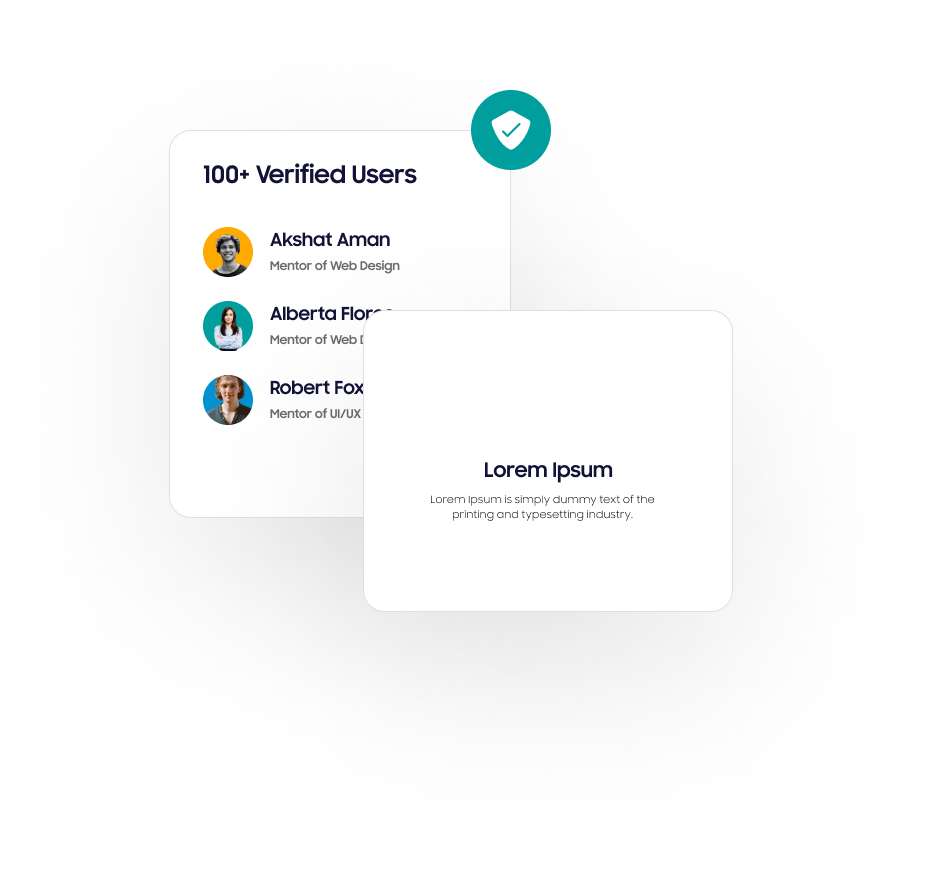
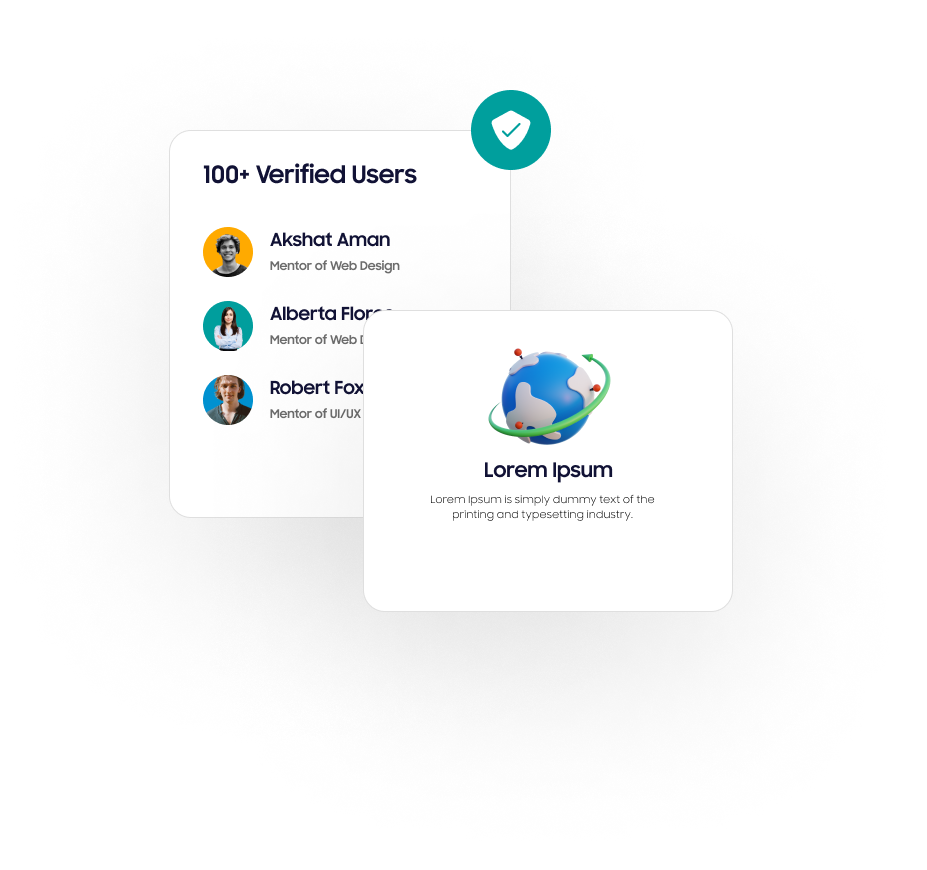
final code push

Changed region(s): [[0.5135, 0.4034, 0.6645, 0.5276]]

diff --git a/assets/css/style.css b/assets/css/style.css
@@ -3144,3 +3144,36 @@ select.form-control{
     text-transform: capitalize;
     color: #494949;
 }
+.card-8{
+    background: linear-gradient(180deg, rgba(174, 199, 158, 0.19) 0%, rgba(254, 217, 208, 0) 100%);
+    box-shadow: inset 0px -20px 20px rgba(255, 255, 255, 0.2);
+    border-radius: 27px;
+    height: 150px;
+    width: 150px;
+    display: flex;
+    justify-content: center;
+    align-items: center;
+    filter: drop-shadow(0px 22px 70px rgba(169, 180, 203, 0.2)) drop-shadow(-3px -3px 4px #FFFFFF) drop-shadow(0px 3px 0px #D6DADF);
+}
+.card-8-desc{
+    text-align: center;
+    margin-top: 20px ;
+}
+.card-8-desc h5{
+    font-style: normal;
+    font-weight: 700;
+    font-size: 20px;
+    line-height: 25px;
+    text-align: center;
+    color: #3F3F3F;
+}
+.intro-desc h1{
+    font-style: normal;
+    font-weight: 700;
+    font-size: 48px;
+    line-height: 60px;
+    color: #253B7C;
+}
+.intro-desc h1 span{
+    color: #52B6DF;
+}

diff --git a/about-us.php b/about-us.php
@@ -153,7 +153,7 @@ include_once "header.php"
 </section>
 
 <section class="about-community-section">
-    <div class="container">
+    <div class="container mb-3">
         <div class="row">
             <div class="col-md-6 learn-single mt-4">
                 <img src="assets/images/organised.png">
@@ -185,6 +185,84 @@ include_once "header.php"
             </div>
         </div>
     </div>
+    <div class="section-contact-ask mt-5">
+        <div class="container">
+            <div class="row contact-ask-card">
+                <div class="col-lg-6">
+                    <img src="assets/images/contact-1.png">
+                </div>
+                <div class="col-lg-6">
+                    <div class="ask-desc">
+                        <p>OpenGrowth Community</p>
+                        <h2>Ask, Share, Discuss and Clear Your Problems</h2>
+                        <span>Ask your doubts here with OpenGrowth community and get the answers by experts and other entrepreneur.</span>
+                        <textarea required class="form-control" rows="7"  placeholder="Sample Question : Lorem Ipsum is simply dummy text of the printing and typesetting industry. Lorem Ipsum has been the industry's standard dummy text ever since the 1500s, when an unknown printer took a galley of type and scrambled it to make a type specimen book."></textarea>
+                        <div class="row">
+                            <div class="col-md-7">
+                                <input class="form-control" name="email" type="email" placeholder="Email: loremipsum@gmail.com">
+                            </div>
+                            <div class="col-md-5 d-flex align-items-center">
+                                <button type="submit" class="btn btn-secondary">Ask to expert</button>
+                            </div>
+                        </div>
+                    </div>
+                </div>
+            </div>
+        </div>
+    </div>
+
+    <div class="container">
+        <div class="row justify-content-between">
+            <div class="col-md-5">
+                <div class="intro-desc">
+                    <h1><span>Dummy text is</span> "Lorem "</h1>
+                    <p>Lorem Ipsum is simply dummy text of the printing and typesetting industry. Lorem Ipsum has been the industry's standard dummy text ever since the 1500s, when an unknown printer took a galley of type and scrambled it to make a type specimen book. It has survived not only five centuries, but also the leap into electronic typesetting, remaining essentially unchanged. It was popularised in the 1960s with the release of Letraset sheets containing .</p>
+                </div>
+            </div>
+            <div class="col-md-6">
+                <div class="row">
+
+                    <div class="col-md-6 col-lg-4">
+                        <div class="card-8">
+                            <div class="image text-center">
+                                <img src="assets/images/webinar-1.png">
+                            </div>
+                        </div>
+                        <div class="card-8-desc">
+                            <h5>Live Sessions</h5>
+                            <p>Group learning, at comfort of your home or office is fun</p>
+                        </div>
+                    </div>
+
+                    <div class="col-md-6 col-lg-4">
+                        <div class="card-8">
+                            <div class="image text-center">
+                                <img src="assets/images/online-learning1.png">
+                            </div>
+                        </div>
+                        <div class="card-8-desc">
+                            <h5>Learning</h5>
+                            <p>We give you time and save your money as we want you to learn</p>
+                        </div>
+                    </div>
+
+                    <div class="col-md-6 col-lg-4">
+                        <div class="card-8">
+                            <div class="image text-center">
+                                <img src="assets/images/conversation1.png">
+                            </div>
+                        </div>
+                        <div class="card-8-desc">
+                            <h5>Interactions</h5>
+                            <p>Online Interaction with Expert is better than recorded videos </p>
+                        </div>
+                    </div>
+
+
+                </div>
+            </div>
+        </div>
+    </div>
 </section>
 
 <section class="team-section">
@@ -204,7 +282,7 @@ include_once "header.php"
                         <div class="row">
                             <div class="col-4 position-relative">
                                 <div class="team-card-img ">
-                                    <img src="assets/images/team-person.png">
+                                    <img src="assets/images/sourav.png">
                                 </div>
                             </div>
                             <div class="col-8">

diff --git a/single-blog-page.php b/single-blog-page.php
@@ -119,13 +119,15 @@
                 <div class="author-con mt-5">
                     <div class="row ">
                         <div class="col-md-8">
-                            <div class="blog-author-footer">
-                                <div class="author-img ">
-                                    <img src="assets/images/blogs/blog-writer.png">
+                            <div class="row align-items-center">
+                                <div class="col-md-4 pr-0">
+                                    <img src="assets/images/blogs/blog-writer.png" style="width: 110px;height: 110px;border-radius: 50%">
                                 </div>
-                                <div class="author-desc ">
-                                    <h6>Supriya Devnath</h6>
-                                    <p>Lorem Ipsum is simply dummy text of the printing and typesetting industry. Lorem Ipsum has been the industry's standard dummy text ever since the 1500s, when an unknown printer.</p>
+                                <div class="col-md-8 pl-0">
+                                    <div class="author-desc ">
+                                        <h6>Supriya Devnath</h6>
+                                        <p>Lorem Ipsum is simply dummy text of the printing and typesetting industry. Lorem Ipsum has been the industry's standard dummy text ever since the 1500s, when an unknown printer.</p>
+                                    </div>
                                 </div>
                             </div>
                         </div>
@@ -507,7 +509,7 @@
                 <div class="must-read-card mt-3 padding-16">
                     <div class="row">
                         <div class="col-4 pr-0">
-                            <img src="assets/images/blogs/blog3.png" class="h-100 br-8">
+                            <img src="assets/images/blogs/blog1.png" class="h-100 br-8">
                         </div>
                         <div class="col-8 pr-1">
                             <span>Financials</span>
@@ -542,7 +544,7 @@
         <div class="owl-slider">
             <div id="featuredCarousel" class="owl-carousel">
                 <div class="item">
-                    <div class="blog-single">
+                    <div class="blog-single" style="box-shadow: 0 0 18px 5px rgba(0, 0, 0, 0.15);">
                         <div class="blog-image">
                             <img src="assets/images/blogs/blog1.png">
                         </div>
@@ -565,7 +567,7 @@
                     </div>
                 </div>
                 <div class="item">
-                    <div class="blog-single">
+                    <div class="blog-single" style="box-shadow: 0 0 18px 5px rgba(0, 0, 0, 0.15);">
                         <div class="blog-image">
                             <img src="assets/images/blogs/blog1.png">
                         </div>
@@ -588,7 +590,7 @@
                     </div>
                 </div>
                 <div class="item">
-                    <div class="blog-single">
+                    <div class="blog-single" style="box-shadow: 0 0 18px 5px rgba(0, 0, 0, 0.15);">
                         <div class="blog-image">
                             <img src="assets/images/blogs/blog1.png">
                         </div>
@@ -611,7 +613,7 @@
                     </div>
                 </div>
                 <div class="item">
-                    <div class="blog-single">
+                    <div class="blog-single" style="box-shadow: 0 0 18px 5px rgba(0, 0, 0, 0.15);">
                         <div class="blog-image">
                             <img src="assets/images/blogs/blog1.png">
                         </div>
@@ -634,7 +636,7 @@
                     </div>
                 </div>
                 <div class="item">
-                    <div class="blog-single">
+                    <div class="blog-single" style="box-shadow: 0 0 18px 5px rgba(0, 0, 0, 0.15);">
                         <div class="blog-image">
                             <img src="assets/images/blogs/blog1.png">
                         </div>
@@ -657,7 +659,7 @@
                     </div>
                 </div>
                 <div class="item">
-                    <div class="blog-single">
+                    <div class="blog-single" style="box-shadow: 0 0 18px 5px rgba(0, 0, 0, 0.15);">
                         <div class="blog-image">
                             <img src="assets/images/blogs/blog1.png">
                         </div>

diff --git a/terms.php b/terms.php
@@ -23,7 +23,14 @@ include_once "header.php"
             <h1>Terms & Conditions</h1>
         </div>
         <div>
-
+            <h6 class="mt-4">What is Lorem Ipsum?</h6>
+            <p>Lorem Ipsum is simply dummy text of the printing and typesetting industry. Lorem Ipsum has been the industry's standard dummy text ever since the 1500s, when an unknown printer took a galley of type and scrambled it to make a type specimen book. It has survived not only five centuries, but also the leap into electronic typesetting, remaining essentially unchanged. It was popularised in the 1960s with the release of Letraset sheets containing Lorem Ipsum passages, and more recently with desktop publishing software like Aldus PageMaker including versions of Lorem Ipsum. </p>
+            <h6>Why do we use it?</h6>
+            <p>It is a long established fact that a reader will be distracted by the readable content of a page when looking at its layout. The point of using Lorem Ipsum is that it has a more-or-less normal distribution of letters, as opposed to using 'Content here, content here', making it look like readable English. Many desktop publishing packages and web page editors now use Lorem Ipsum as their default model text, and a search for 'lorem ipsum' will uncover many web sites still in their infancy. Various versions have evolved over the years, sometimes by accident, sometimes on purpose (injected humour and the like). </p>
+            <h6>Where does it come from?</h6>
+            <p>Contrary to popular belief, Lorem Ipsum is not simply random text. It has roots in a piece of classical Latin literature from 45 BC, making it over 2000 years old. Richard McClintock, a Latin professor at Hampden-Sydney College in Virginia, looked up one of the more obscure Latin words, consectetur, from a Lorem Ipsum passage, and going through the cites of the word in classical literature, discovered the undoubtable source. Lorem Ipsum comes from sections 1.10.32 and 1.10.33 of "de Finibus Bonorum et Malorum" (The Extremes of Good and Evil) by Cicero, written in 45 BC. This book is a treatise on the theory of ethics, very popular during the Renaissance. The first line of Lorem Ipsum, "Lorem ipsum dolor sit amet..", comes from a line in section 1.10.32. The standard chunk of Lorem Ipsum used since the 1500s is reproduced below for those interested. Sections 1.10.32 and 1.10.33 from "de Finibus Bonorum et Malorum" by Cicero are also reproduced in their exact original form, accompanied by English versions from the 1914 translation by H. Rackham.</p>
+            <h6>Where can I get some?</h6>
+            <p>There are many variations of passages of Lorem Ipsum available, but the majority have suffered alteration in some form, by injected humour, or randomised words which don't look even slightly believable. If you are going to use a passage of Lorem Ipsum, you need to be sure there isn't anything embarrassing hidden in the middle of text. All the Lorem Ipsum generators on the Internet tend to repeat predefined chunks as necessary, making this the first true generator on the Internet. It uses a dictionary of over 200 Latin words, combined with a handful of model sentence structures, to generate Lorem Ipsum which looks reasonable. The generated Lorem Ipsum is therefore always free from repetition, injected humour, or non-characteristic words etc.</p>
         </div>
     </div>
 </section>

diff --git a/mentor-detail.php b/mentor-detail.php
@@ -339,9 +339,13 @@
         <div class="row justify-content-center  mt-4">
             <div class="become-mentor">
                 <h1 class="heading-title text-primary fs-30 text-center">Become an Mentor today</h1>
-                <p class="text-center">Join one of the world’s largest online learning marketplaces.</p>
-                <a href="">Book a session</a>
-                <span class="d-block text-center">Have any more questions about OpenGrowth mentor mentorship? <br>Write to us at hello@opengrowth.com and we'll be in touch!</span>
+                <p class="text-center mb-5">Join one of the world’s largest online learning marketplaces.</p>
+                <div class="mt-3">
+                    <a href="" >Book a session</a>
+                </div>
+                <div class="mt-5">
+                    <span class="d-block text-center">Have any more questions about OpenGrowth mentor mentorship? <br>Write to us at hello@opengrowth.com and we'll be in touch!</span>
+                </div>
             </div>
         </div>
     </div>

diff --git a/header.php b/header.php
@@ -40,15 +40,9 @@
                     </li>
 
                     <li class="nav-item dropdown">
-                        <a class="nav-link dropdown-toggle" href="#" id="navbarDropdown" role="button" data-toggle="dropdown">
+                        <a class="nav-link dropdown-toggle" >
                             <i class="fas fa-search" ></i>
                         </a>
-                        <div class="dropdown-menu" aria-labelledby="navbarDropdown">
-                            <div class="search-box">
-                                <i class="fas fa-search"></i>
-                                <input class="search-txt" type="text" name="" placeholder="Search">
-                            </div>
-                        </div>
                     </li>
                     <li class="nav-item">
                         <a href="apply-as-mentor.php" class="btn btn-outline-dark br-8 " type="submit">Apply as mentor</a>
